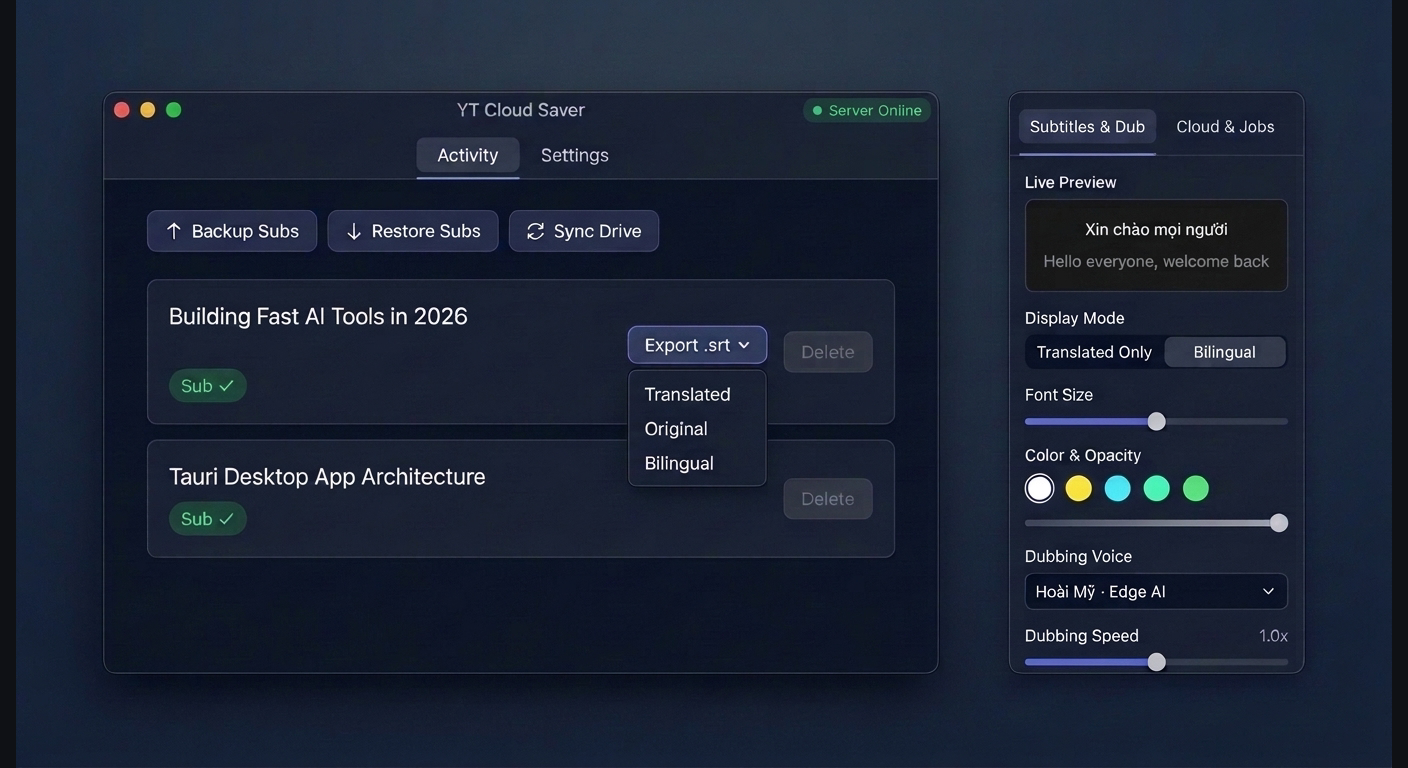
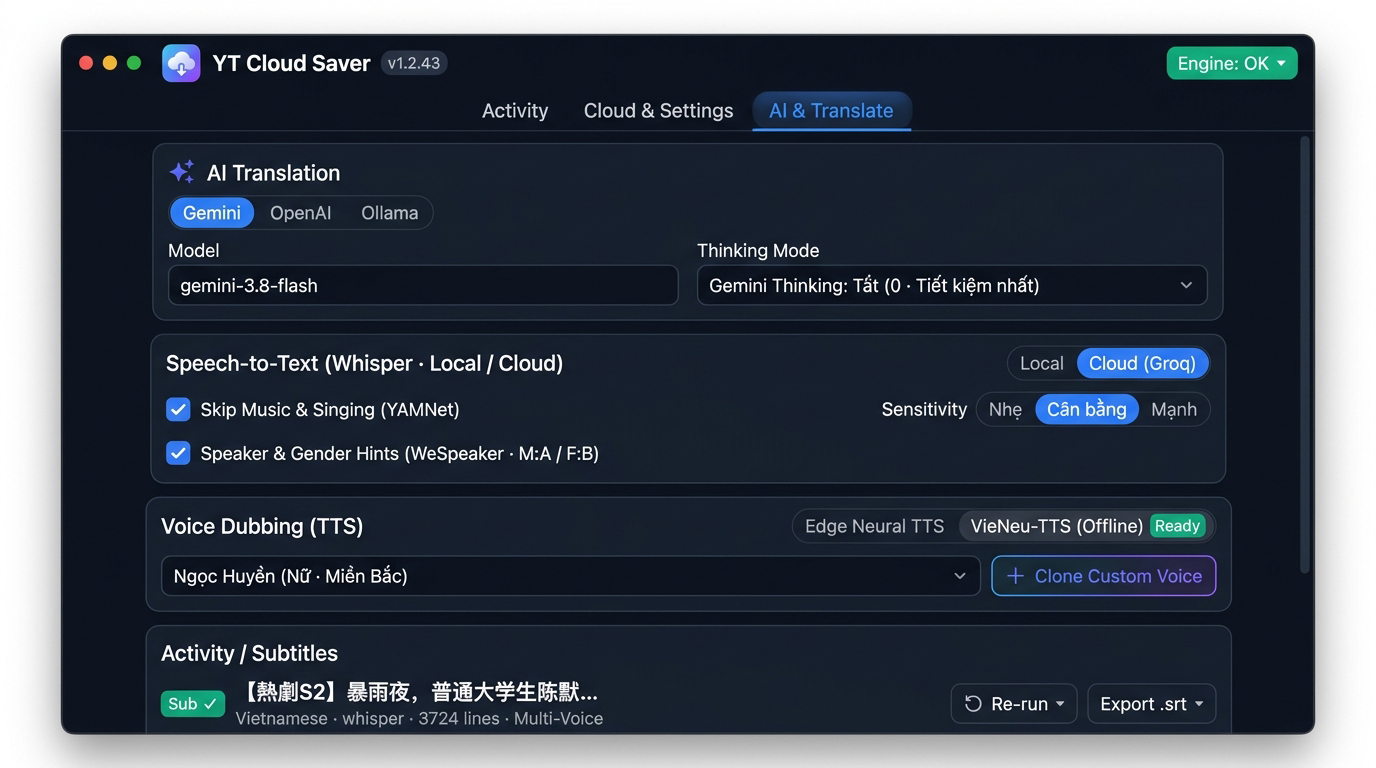
docs(readme): update features, screenshots, and demo.gif for v1.2.43

diff --git a/README.md b/README.md
@@ -1,4 +1,3 @@
-
 <p align="center">
   <img src="docs/banner.png" alt="YT Cloud Saver Banner" width="100%">
 </p>
@@ -6,14 +5,15 @@
 <h1 align="center">YT Cloud Saver</h1>
 
 <p align="center">
-  Save YouTube videos straight to <b>Google Drive</b> (or any <code>rclone</code> cloud) in 1 click, with <b>AI Bilingual Subtitles</b>, <b>Edge Neural TTS Dubbing</b>, <b>Whisper.cpp</b> offline transcription, and instant inline Cloud playback.
+  Save YouTube videos straight to <b>Google Drive</b> (or any <code>rclone</code> cloud) in 1 click, with <b>AI Bilingual Subtitles</b>, <b>2-Pass Speaker Diarization</b>, <b>Auto Multi-Voice Offline Dubbing (VieNeu-TTS / Edge TTS)</b>, <b>Whisper (Local &amp; Cloud)</b>, and instant inline Cloud playback.
 </p>
 
 <p align="center">
   <img src="https://img.shields.io/badge/Chrome%20Extension-MV3-4285F4?logo=googlechrome&logoColor=white" alt="Chrome Extension MV3">
   <img src="https://img.shields.io/badge/Desktop%20App-Tauri%20v2-24C8DB?logo=tauri&logoColor=white" alt="Tauri v2">
-  <img src="https://img.shields.io/badge/AI%20Subtitles-Gemini%20%7C%20OpenAI%20%7C%20Whisper-8B5CF6" alt="AI Subtitles">
-  <img src="https://img.shields.io/badge/TTS%20Dubbing-Edge%20Neural%20TTS-10B981" alt="Edge Neural TTS">
+  <img src="https://img.shields.io/badge/AI%20Subtitles-Gemini%20%7C%20OpenAI%20%7C%20Ollama-8B5CF6" alt="AI Subtitles">
+  <img src="https://img.shields.io/badge/Audio%20AI-Whisper%20%7C%20YAMNet%20%7C%20WeSpeaker-F59E0B" alt="Audio AI">
+  <img src="https://img.shields.io/badge/TTS%20Dubbing-VieNeu--TTS%20%7C%20Edge%20TTS-10B981" alt="TTS Dubbing">
   <img src="https://img.shields.io/badge/Cloud-Google%20Drive%20%7C%20rclone-34A853?logo=googledrive&logoColor=white" alt="Google Drive">
 </p>
 
@@ -21,16 +21,18 @@
 
 ## Demo
 
-https://github.com/user-attachments/assets/fd3dc00d-2bef-45b1-a8cb-98be6c803195
-
-https://github.com/user-attachments/assets/03aaa79a-9368-4505-a0cc-7292cde233a3
-
 <p align="center">
-  <img src="docs/preview-youtube.png" alt="YT Cloud Saver on YouTube" width="90%">
+  <img src="docs/demo.gif" alt="YT Cloud Saver Demo" width="92%">
 </p>
 
+### YouTube Player + Extension Popup (Auto Multi-Voice &amp; VieNeu-TTS)
 <p align="center">
-  <img src="docs/preview-desktop.png" alt="YT Cloud Saver Desktop App" width="90%">
+  <img src="docs/preview-youtube.png" alt="YT Cloud Saver on YouTube" width="92%">
+</p>
+
+### Desktop App (`AI & Translate` · Whisper · YAMNet · WeSpeaker · VieNeu-TTS)
+<p align="center">
+  <img src="docs/preview-desktop.png" alt="YT Cloud Saver Desktop App" width="92%">
 </p>
 
 ---
@@ -39,20 +41,22 @@ https://github.com/user-attachments/assets/03aaa79a-9368-4505-a0cc-7292cde233a3
 
 | Feature | Description |
 | :--- | :--- |
-| **1-Click Save & Cloud Menu** | Adds a single **`Save to Cloud`** / **`Saved ✓ ▾`** pill next to Like & Share with **Play from Cloud** (inline), **Re-save / Update**, and **Remove from Cloud** (2-step confirm). |
+| **1-Click Save &amp; Cloud Menu** | Adds a single **`Save to Cloud`** / **`Saved ✓ ▾`** pill next to Like &amp; Share with **Play from Cloud** (inline), **Re-save / Update**, and **Remove from Cloud** (2-step confirm). |
 | **Native Player Bar (`AI CC` + `Dub`)** | Integrates **`AI CC`** (cycles `OFF → Bilingual → Translated`) and **`Dub`** directly into YouTube's bottom-right control bar (`.ytp-right-controls`), auto-hiding with the player controls. |
-| **AI Subtitles + Whisper.cpp** | Translates YouTube transcripts via **Gemini** or **OpenAI** with chunked `whisper.cpp` fallback for videos without captions, progressive loading, and `Export .srt ▾` (**Translated / Original / Bilingual**). |
-| **Edge Neural TTS Dubbing** | Built-in Rust WebSocket Edge TTS (`Hoài Mỹ`, `Nam Minh`, `Aria`, `Guy`) with batch pre-buffering, adaptive speech speed synced to video `playbackRate`, and automatic disk cache cleanup (100 MB / 3 days). |
-| **Subtitle Customizer (Popup)** | Two-tab Extension Popup (`Subtitles & Dub` + `Cloud & Jobs`) with live preview, 2-way **Display Mode** sync, size (`12–32px`), text/background colors, opacity (`0–100%`), voice, speed, and dub volume. |
+| **AI Subtitles + Whisper (Local &amp; Cloud)** | Translates YouTube transcripts via **Gemini**, **OpenAI / OpenRouter**, or **Ollama** with **Gemini Thinking Budget** control (`0` / `1024` / `-1`, saving ~90% output tokens). Falls back to chunked **`whisper.cpp` + Silero VAD** or **Cloud Whisper (Groq / OpenAI)** for videos without captions, with progressive loading, **`↻ Re-run ▾`**, auto-fetched video titles, and **`Export .srt ▾`** (**Translated / Original / Bilingual**). |
+| **YAMNet ONNX Music &amp; Singing Filter** | Automatically detects and mutes background music and singing segments before Whisper transcription using `yamnet.onnx` with 3 sensitivity presets (**Low / Balanced / High**). |
+| **2-Pass Speaker Diarization &amp; Gender Hints** | Uses **WeSpeaker ONNX** (`wespeaker_voxceleb.onnx`), **F0 pitch estimation**, and **YAMNet** voting with 2-Pass **Agglomerative Clustering (AHC)** to group speakers (`M:A`, `F:B`, `F:C`...) and pass character gender hints to the LLM for accurate Vietnamese pronouns. |
+| **Auto Multi-Voice Dubbing (VieNeu-TTS &amp; Edge)** | **VieNeu-TTS** (local offline Vietnamese neural TTS with 4 Female + 4 Male voices + **Custom Voice Cloning** from 3–15s reference audio) alongside **Edge Neural TTS** and **Browser TTS**. Automatically switches and rotates voices per character (`M:A`, `F:B`, `F:C`, `M:D`...), with 24-cue lookahead prefetching, **Dub Voice Boost (`100–200%`)**, and **Smart Vocal Ducking** (borrows up to 1.2s of trailing silence). |
+| **Subtitle Customizer (Popup)** | Two-tab Extension Popup (`Subtitles & Dub` + `Cloud & Jobs`) with live preview, 2-way **Display Mode** sync, size (`12–32px`), text/background colors, opacity (`0–100%`), Female/Male voice selectors, speed (`0.7x–2.0x`), original volume, and Dub Voice Boost. |
 | **Fast Inline Cloud Player** | Streams saved MP4s from Google Drive right inside the YouTube player frame via `rclone serve http` range proxy (zero disk cache, 15-min idle auto-stop) with a YouTube-style control bar and `✕ YouTube` switch-back. |
-| **Subtitle Backup & Restore** | Automatically backs up cached subtitles to `<Remote>/_ytcs_subtitles/` after translation, with **`↑ Backup Subs`** and **`↓ Restore Subs`** buttons when Drive is connected. |
-| **Auto-Organize & Sync** | Organizes downloads into `<Destination>/<Channel Name>/`, supports browser cookies for restricted videos, and syncs `Saved ✓` status across devices via `↻ Sync Drive`. |
+| **Subtitle Backup &amp; Restore** | Automatically backs up cached subtitles to `<Remote>/_ytcs_subtitles/` after translation, with **`↑ Backup Subs`** and **`↓ Restore Subs`** buttons when Drive is connected. |
+| **Auto-Organize &amp; Sync** | Organizes downloads into `<Destination>/<Channel Name>/`, supports browser cookies for restricted videos, and syncs `Saved ✓` status across devices via `↻ Sync Drive`. |
 
-### Keyboard Shortcuts (YouTube & Cloud Player)
+### Keyboard Shortcuts (YouTube &amp; Cloud Player)
 
 | Shortcut | Action |
 | :--- | :--- |
-| `Option / Alt + C` | Toggle & cycle **`AI CC`** (`OFF → Bilingual → Translated`) |
+| `Option / Alt + C` | Toggle &amp; cycle **`AI CC`** (`OFF → Bilingual → Translated`) |
 | `Option / Alt + D` | Toggle **`Dub`** (`ON / OFF`) |
 | `Space / K`, `← / →`, `J / L`, `M`, `F` | Full YouTube-style playback shortcuts inside Cloud Player |
 
@@ -60,7 +64,7 @@ https://github.com/user-attachments/assets/03aaa79a-9368-4505-a0cc-7292cde233a3
 
 ## Installation (For Everyone)
 
-### Step 1: Install Desktop App & Connect Google Drive
+### Step 1: Install Desktop App &amp; Connect Google Drive
 1. Download the installer for your OS from the [**Latest Release**](../../releases/latest):
    - **macOS:** `.dmg` (drag `YT Cloud Saver.app` into **Applications**)
      > **macOS Note:** Because the app is not notarized with an Apple Developer ID, macOS may show *"YT Cloud Saver is damaged and can't be opened"*. Run this once in Terminal to clear the quarantine flag:
@@ -71,16 +75,17 @@ https://github.com/user-attachments/assets/03aaa79a-9368-4505-a0cc-7292cde233a3
      > **Windows Note:** Because the app is not signed with a paid EV certificate, Windows SmartScreen may show *"Windows protected your PC"*. Click **More info → Run anyway** to install.
    - **Linux:** `.AppImage` / `.deb`
 2. Open **YT Cloud Saver** — if `yt-dlp`, `ffmpeg`, or `rclone` are missing, click **Download Missing Tools** right inside the app (no terminal needed).
-3. Go to **Cloud & Settings** and click **Connect** to sign in to Google Drive in your browser.
+3. Go to **Cloud &amp; Settings** and click **Connect** to sign in to Google Drive in your browser.
+4. *(Optional)* Go to **AI &amp; Translate** to configure **Gemini / OpenAI / Ollama**, download **Whisper**, **YAMNet**, **WeSpeaker**, or install **VieNeu-TTS** in 1 click.
 
 ### Step 2: Install the Chrome Extension
 1. Click **Extension Guide** at the bottom-right of the Desktop App, then click **1. Open Extension Folder** and **2. Open `chrome://extensions`** *(or download `yt-cloud-saver-extension.zip` from the [**Latest Release**](../../releases/latest))*.
 2. Enable **Developer mode** (top right) in Chrome.
-3. Drag & drop the highlighted `extension` folder onto the Chrome Extensions page (or click **Load unpacked**).
+3. Drag &amp; drop the highlighted `extension` folder onto the Chrome Extensions page (or click **Load unpacked**).
 
-### Step 3: Save & Watch
-- Open any YouTube video and click **Save to Cloud**.
-- Track progress in the Desktop App or Extension Popup.
+### Step 3: Save, Translate &amp; Dub
+- Open any YouTube video and click **Save to Cloud** to archive it, or toggle **`AI CC`** / **`Dub`** directly in the YouTube player bar.
+- Open the Extension Popup to switch between **VieNeu**, **Edge AI**, and **Browser TTS**, or enable **Auto Multi-Voice** for character-aware dubbing.
 
 ---
 
